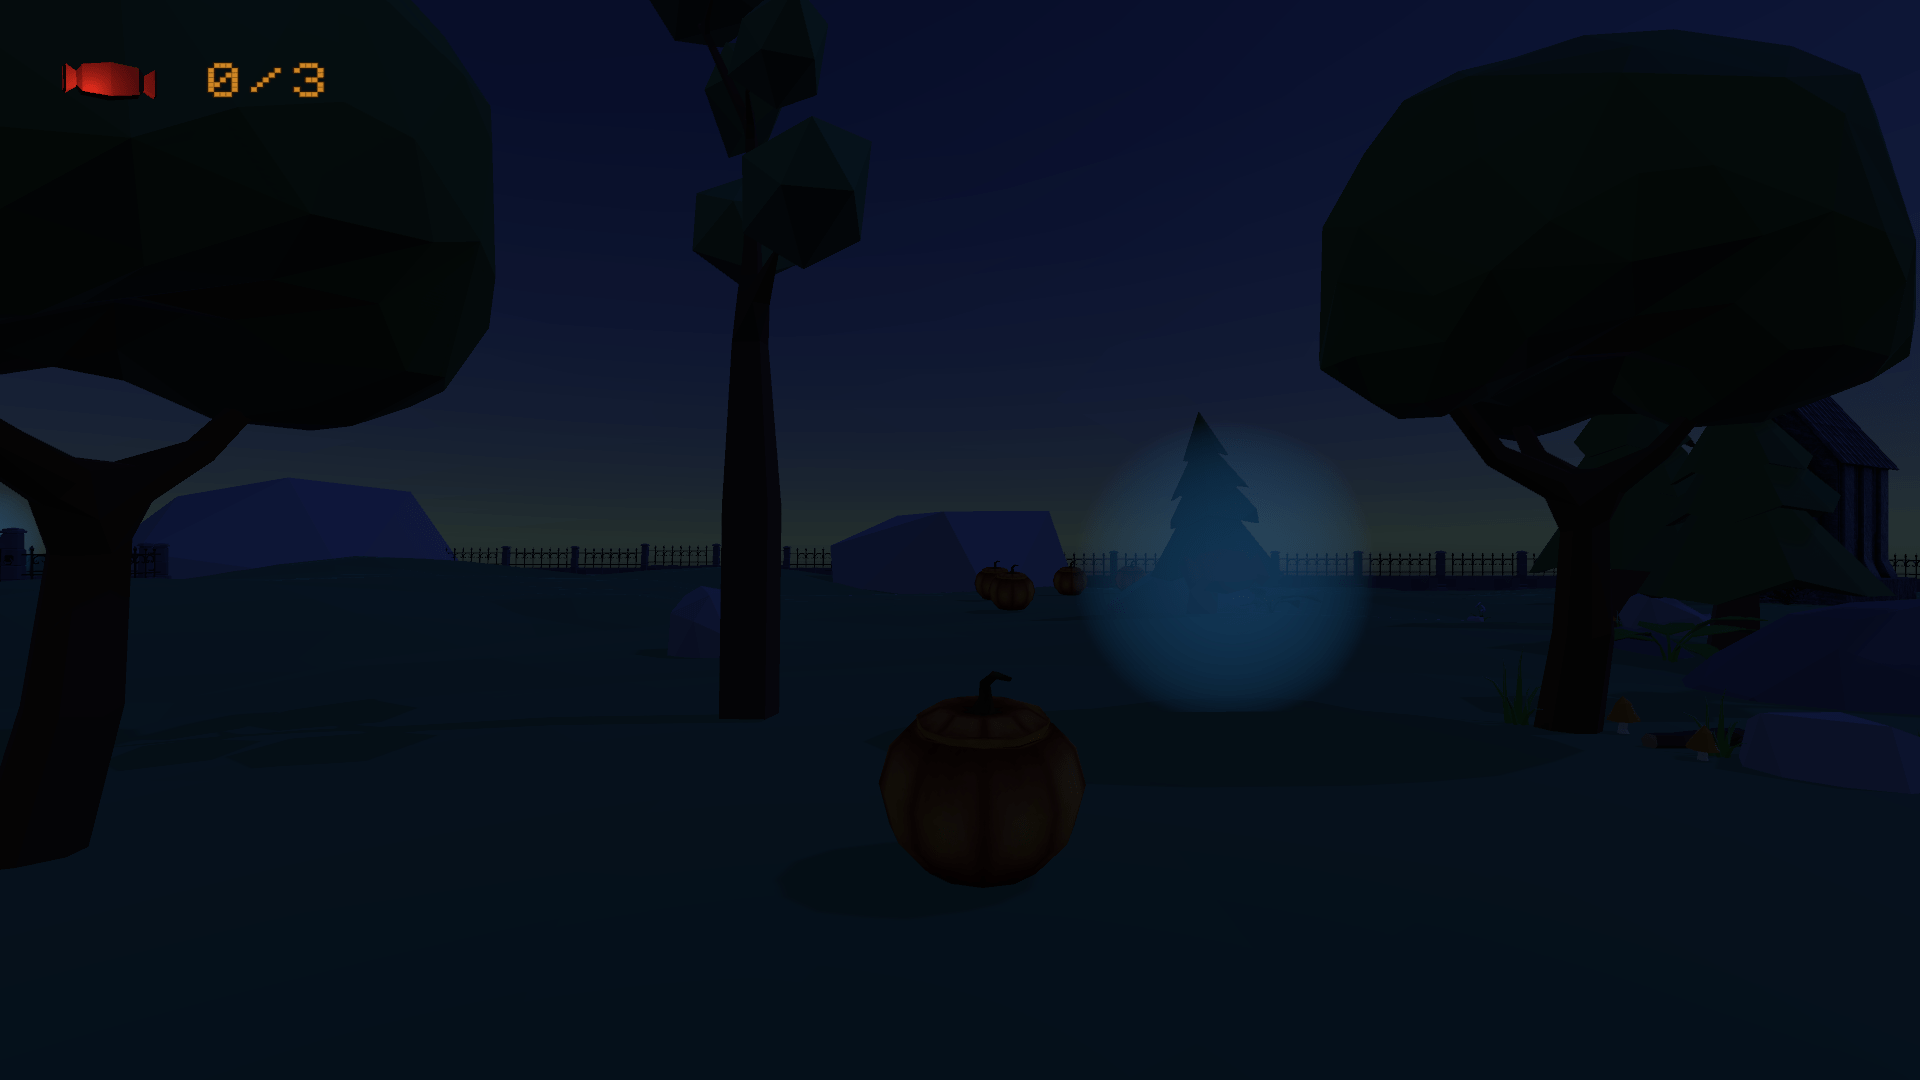
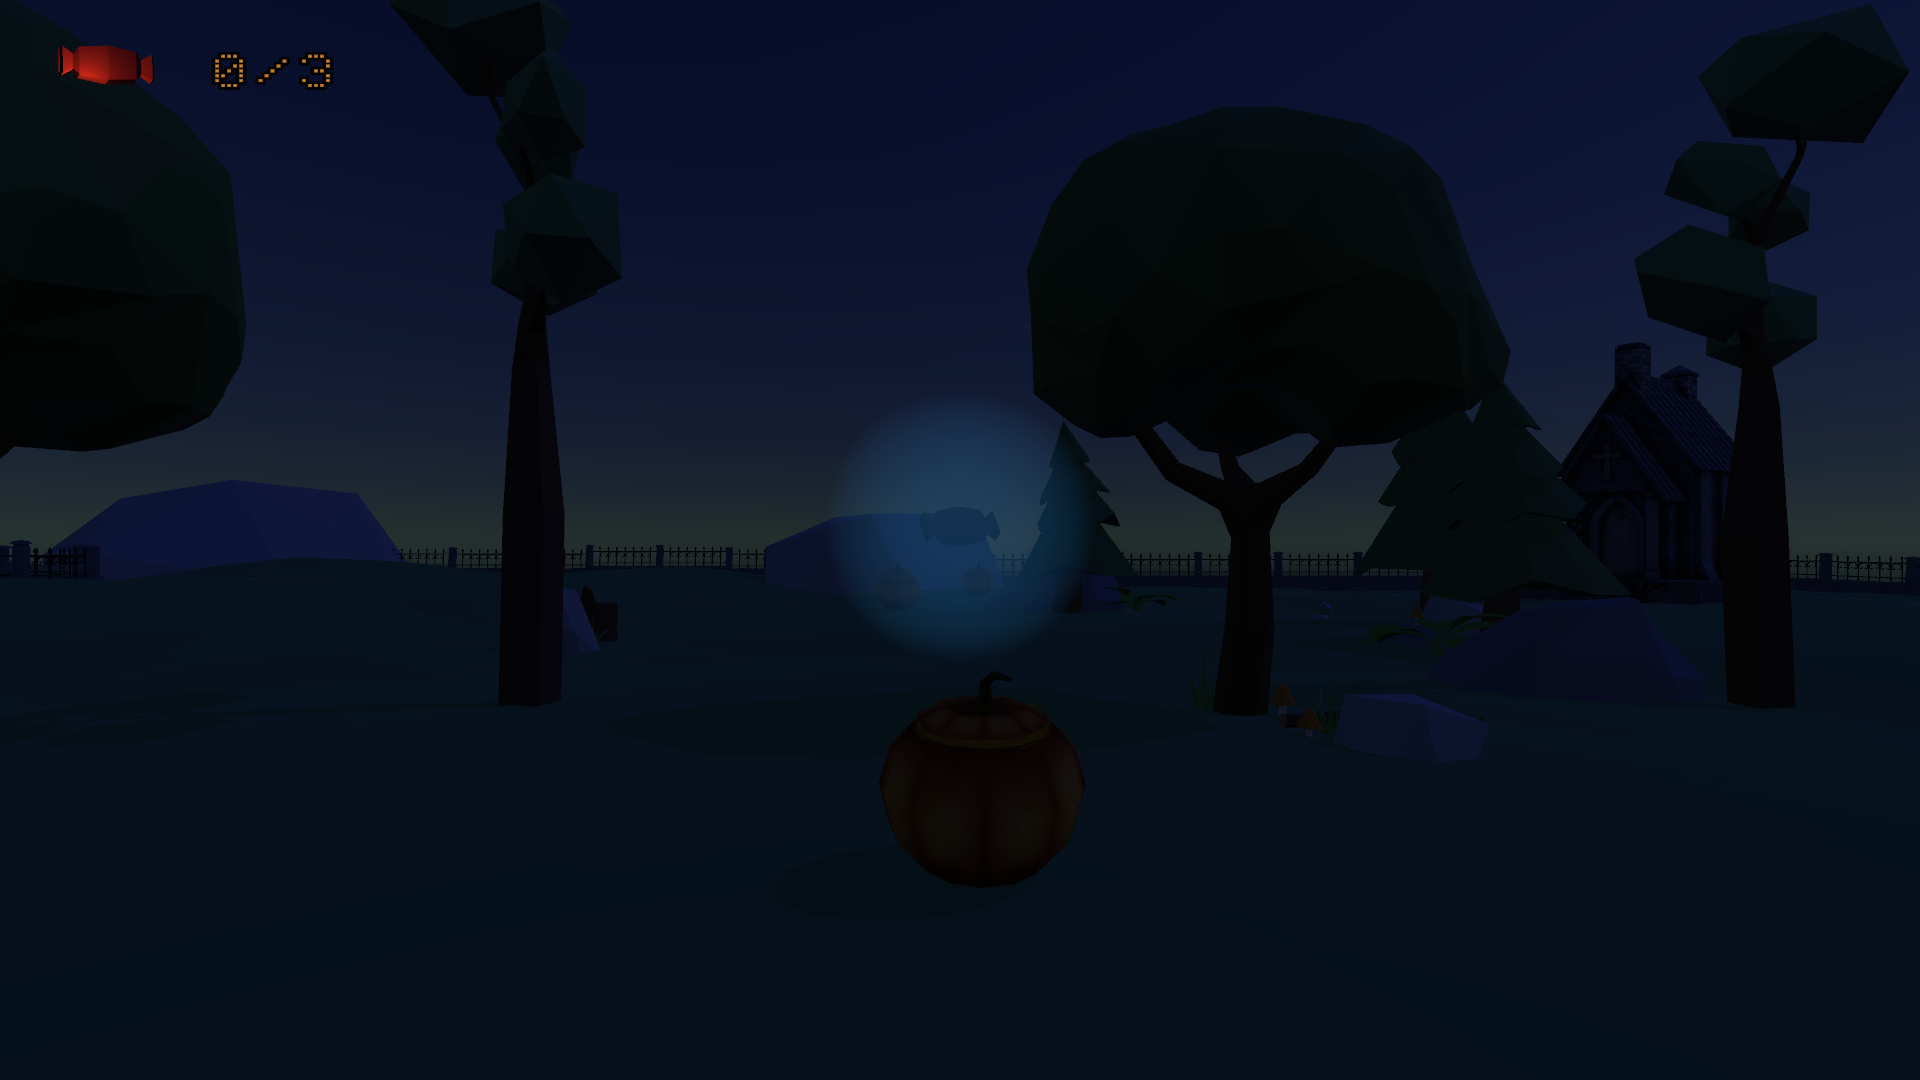
Re-arrange static platforms

diff --git a/README.md b/README.md
@@ -59,5 +59,12 @@ This game is in fact the prototype for a longer game called *Knock On*. If *Knoc
 - At candy intake, the mass is increased of 2 points instead of 1. The directional speed, rotating speed and jump force still increase at candy intake but in a smaller amount than before. This not only fixes issues n°1 and n°2, it also makes the character more pleasant to maneuver: the increase in mass makes moving objects easier, and the decrease in speed makes the character easier to control. I was also wrong to think that mass has an impact on moving speed, it only does for impulsion, so the jump force. Still, I like the game this way, with the character going faster the more candies they take, so this misconception allowed me to find a nice concept.
 - The candy counter now displays a 3D candy.
 - The cauldron emptying script is fixed. I was only checking the x rotation axis, and now the z one is checked as well.
-- Pause/Resume the game with the Escape key.
+- Main menu: "Resume Current Game", "New Game", "Options" (WIP), "Licenses" (WIP) and "Quit".
+- The main menu is a canvas and not another scene. It is navigated with the arrow keys and the Enter key. 
+- The main menu is opened first thing, and once in game it can be opened with the Escape key. Using the Escape key again while in the menu is the same as selecting "Quit".
+- The game is paused while the menu is open.
+- "Resume Current Game" is hidden and unusable if no game has been started yet.
+- "New Game" resets the scene if this wasn't the first game. A boolean is carried through the next iteration of the scene in order to know to load the game immediately instead of awaiting for input.
+- The F4 key allows to switch between fullscreen and windowed mode. It can be used both in game and in the menu.
+- The static platforms are arranged differently.
 
